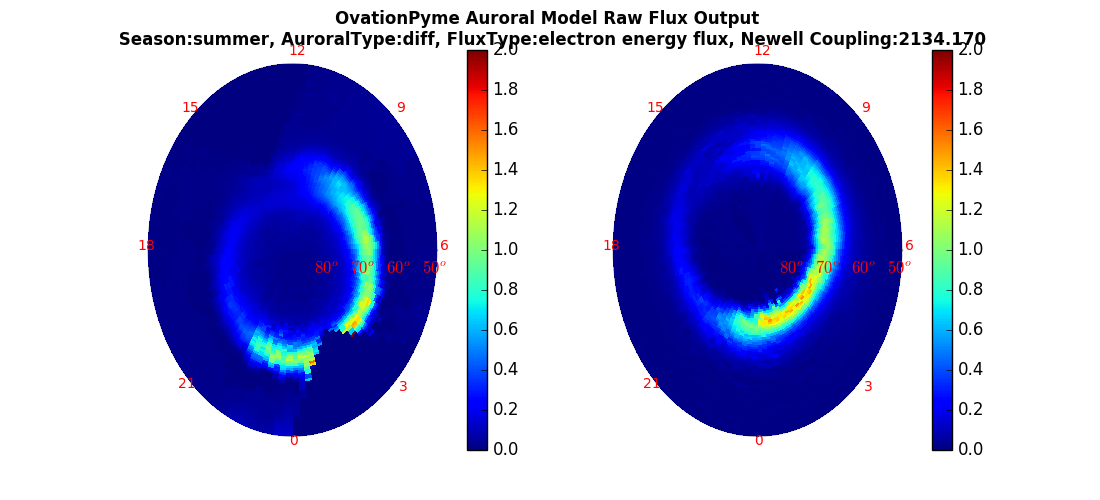
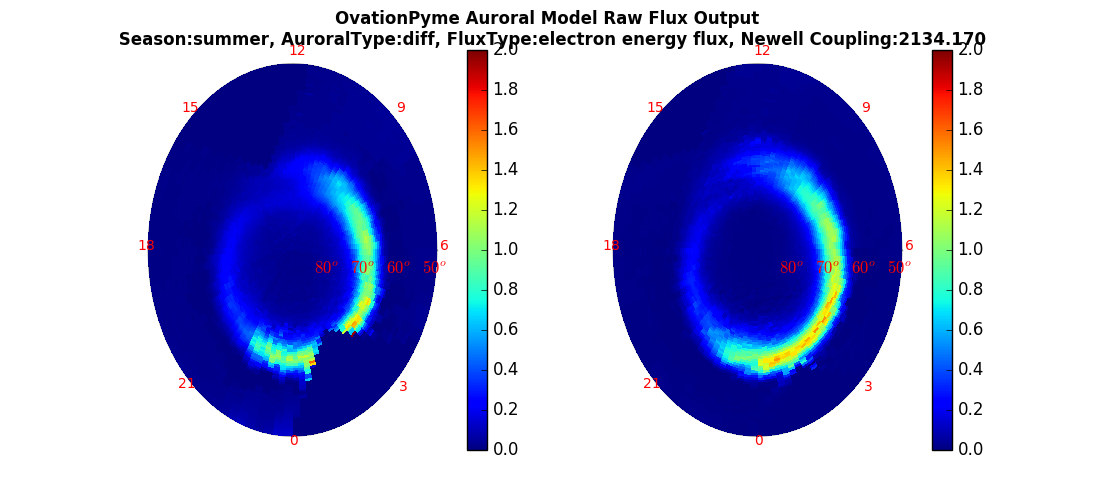
Southern hemisphere latitude is ascending (-50:-90) go figure

Changed region(s): [[0.5873, 0.21, 0.8036, 0.78]]

diff --git a/ovationpyme/ovation_prime.py b/ovationpyme/ovation_prime.py
@@ -397,7 +397,7 @@ class SeasonalFluxEstimator(object):
 			for j_mlat in range(self.n_mlat_bins/2):
 				#The mlat bins are orgainized like -90:dlat:-50,50:dlat:90
 				fluxgridN[j_mlat,i_mlt] = self.estimate_auroral_flux(dF,i_mlt,self.n_mlat_bins/2+j_mlat)
-				fluxgridS[j_mlat,i_mlt] = self.estimate_auroral_flux(dF,i_mlt,self.n_mlat_bins/2-j_mlat-1)
+				fluxgridS[j_mlat,i_mlt] = self.estimate_auroral_flux(dF,i_mlt,j_mlat)
 
 		if not combined_N_and_S:
 			return mlatgridN,mltgridN,fluxgridN,mlatgridS,mltgridS,fluxgridS
